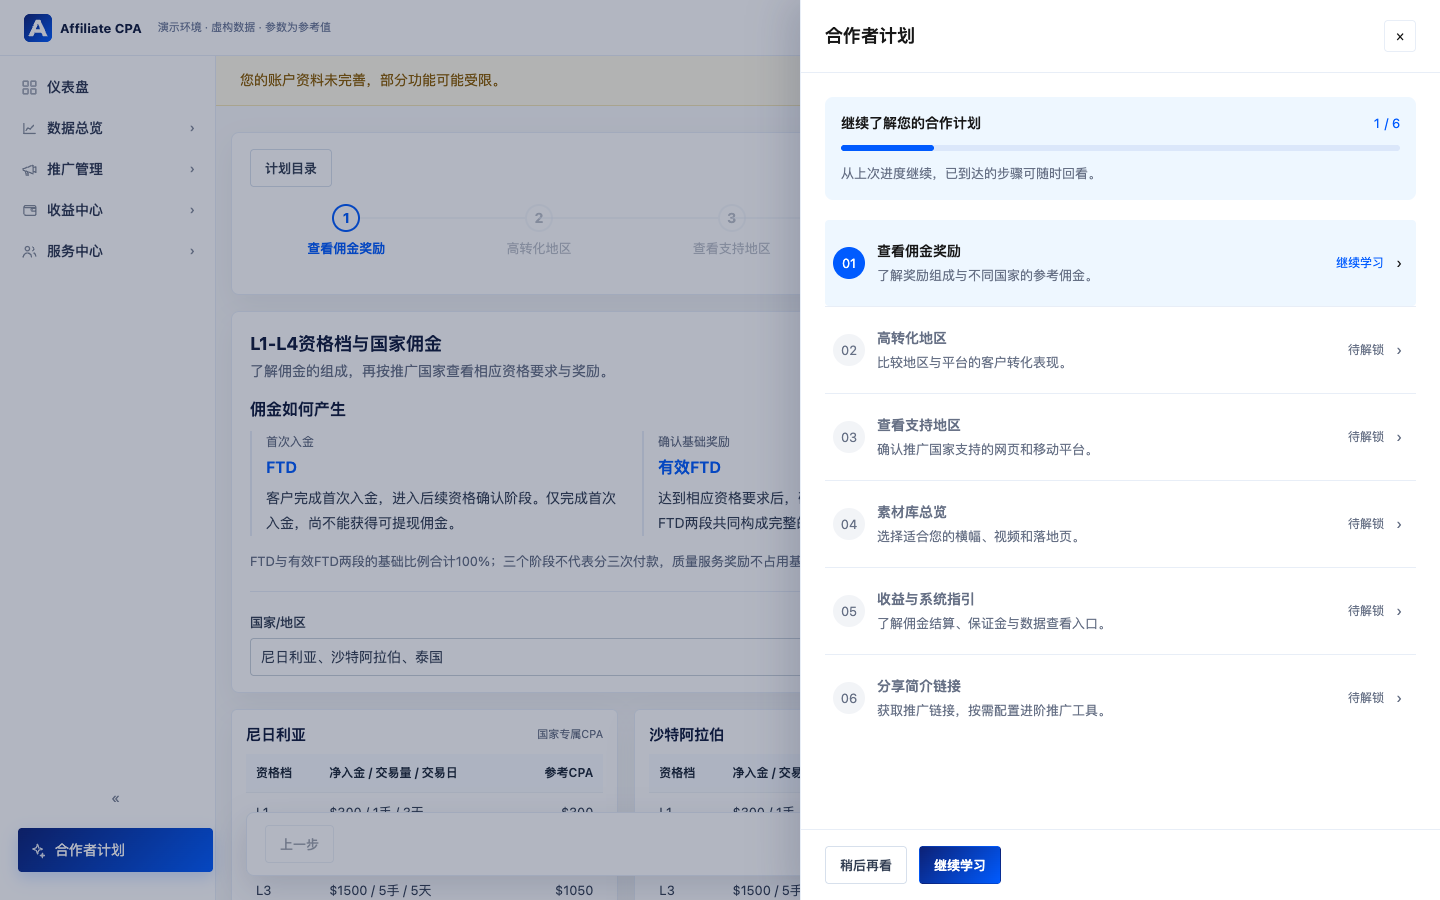
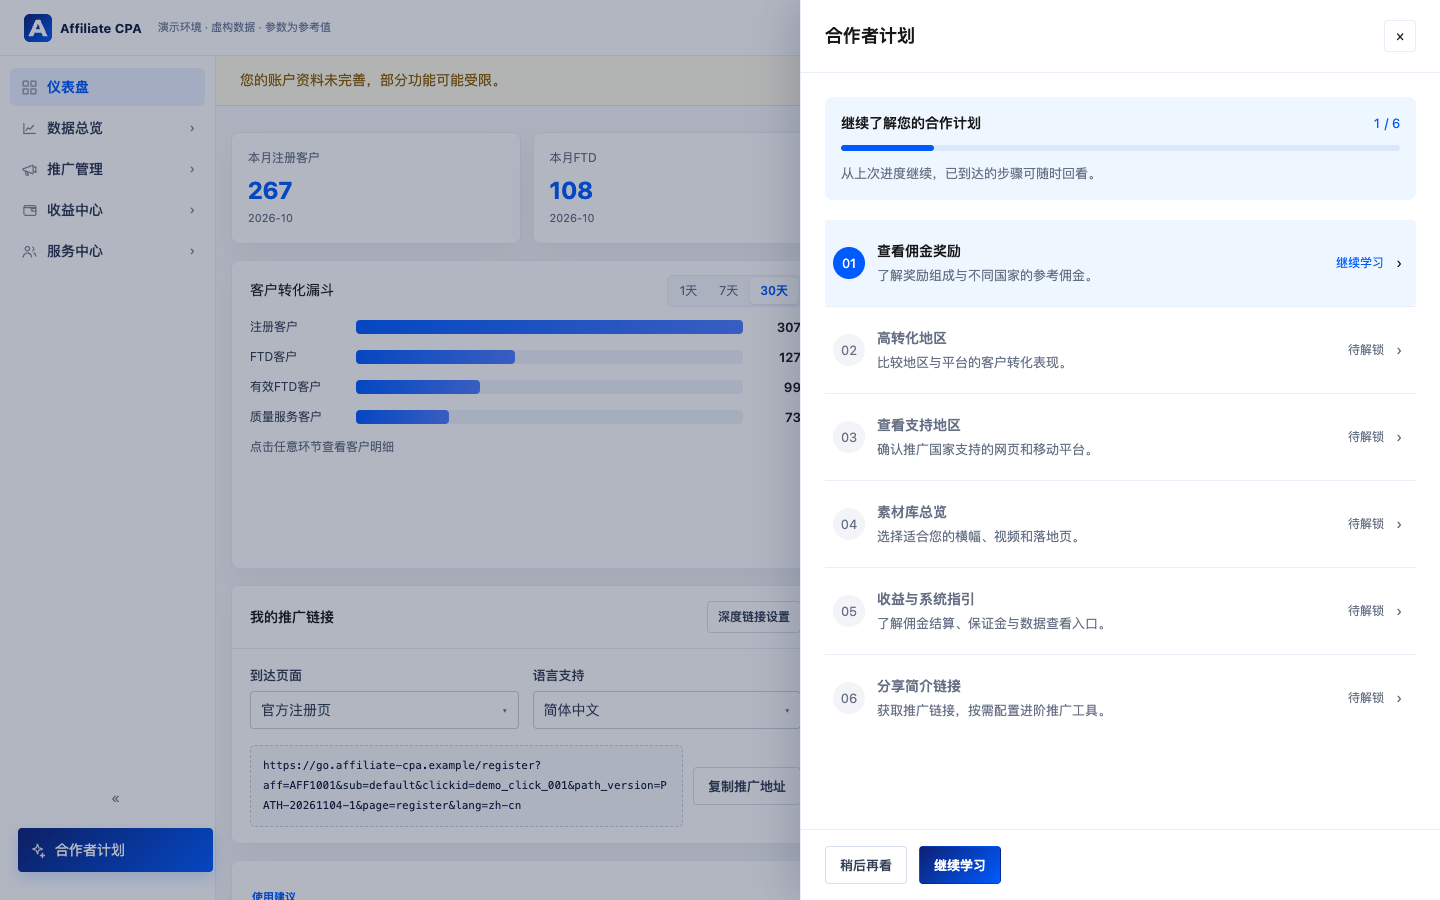
fix: open partner guide navigation over dashboard after login

diff --git a/mock-user/app.js b/mock-user/app.js
@@ -1698,13 +1698,8 @@ async function handleLogin(event) {
   if (isFirstLogin) localStorage.setItem(markerKey, "1");
   if (!AFF.state.programCompleted) {
     AFF.state.applyStep = Math.min(6, Math.max(1, Number(AFF.state.programMaxStep) || Number(AFF.state.applyStep) || 1));
-    AFF.state.route = "apply";
-  } else if (!AFF.state.onboarding.submitted) {
-    AFF.state.onboarding.step = Math.min(5, Math.max(1, Number(AFF.state.onboarding.maxStep) || Number(AFF.state.onboarding.step) || 1));
-    AFF.state.route = "onboarding";
-  } else {
-    AFF.state.route = "dash";
   }
+  AFF.state.route = "dash";
   history.replaceState(null, "", `${location.pathname}${location.search}#/${AFF.state.route}`);
   elements["login-view"].classList.add("hidden");
   elements["app-view"].classList.remove("hidden");

diff --git a/mock-user/index.html b/mock-user/index.html
@@ -268,7 +268,7 @@
   <script src="./popover.js?v=p0-20261106-1"></script>
   <script src="./tooltip.js?v=p0-20261106-1"></script>
   <script src="./tabs.js?v=p0-20261106-1"></script>
-  <script src="./app.js?v=program-navigation-20261112-1"></script>
+  <script src="./app.js?v=program-login-dashboard-20261112-2"></script>
   <script src="./drawer.js?v=p0-20261106-1"></script>
   <script src="./dropdown.js?v=p0-20261106-1"></script>
   <script src="./simulation-console.js?v=20261112-1"></script>

diff --git a/mock-user/docs/user/program-navigation-v0.1.md b/mock-user/docs/user/program-navigation-v0.1.md
@@ -4,11 +4,13 @@
 
 ## 页面契约
 
-- 未完成指引的用户成功登录后，先显示右侧目录抽屉；背景保留上次最高已到达步骤。
+- 登录成功后统一进入仪表盘；未完成指引时自动显示右侧目录抽屉，背景不加载合作者计划内容。关闭或稍后再看留在仪表盘。
+- 已完成指引的用户登录后直接进入仪表盘，不自动弹目录或跳入驻申请；入驻申请继续从既有入口进入。
 - 左下角「合作者计划」和指引页「计划目录」打开同一个抽屉。直接访问 `#/apply` 保留原有页面入口。
 - 目录六项与原六步同源，只显示步骤、用途、到达状态；不复制佣金表或表单进入抽屉。
 - 已到达步骤可回看；未来步骤禁用。继续学习进入最高已到达步骤；完成后可回看全部六步。
 - 点击可用步骤，先关闭目录，再进入对应原页面；不会因为打开、关闭或回看目录增加进度。
+- 从侧栏打开、关闭目录保持当前页面；点击继续学习才进入上次最高已到达步骤。重新登录恢复进度，不强制进入该步骤页面。
 - 指引完成、申请审核、KYC和推广链接资格继续独立；目录不改业务状态。
 
 ## 空间与交互
@@ -19,8 +21,10 @@
 
 ## 验证
 
-运行 `node scripts/program-navigation-check.cjs`。覆盖未完成登录、已完成登录、进度恢复、回看、不越级、关闭和焦点、键盘焦点循环、中英文、1440/1024/390px布局与固定底栏。截图保存在 `.artifacts/program-navigation/`。
+运行 `node scripts/program-navigation-check.cjs`。覆盖登录后仪表盘背景、关闭留在仪表盘、内容按选择加载、侧栏打开保持当前页、重新登录后继续最高进度、已完成但未提交申请的登录、回看、不越级、关闭和焦点、键盘焦点循环、中英文、1440/1024/390px布局与固定底栏。截图保存在 `.artifacts/program-navigation/`。
 
 2026-11-12本地验证已通过导航专项、全用户端交互与响应式检查、模拟控制台、语法检查、用户端审计冻结检查。同时修复小屏底部步骤栏覆盖68px侧栏入口的问题。该证据仅覆盖静态Mock，不证明CRM、生产认证或真实资金链路可用。
+
+同日登录落点调整已通过新增导航回归、全用户端交互与响应式、语法及路由检查；桌面截图背景更新为仪表盘。独立复审未发现阻断问题。
 
 桌面与手机留证：[1440px](screenshots/program-navigation-1440.png)、[390px](screenshots/program-navigation-390.png)。
